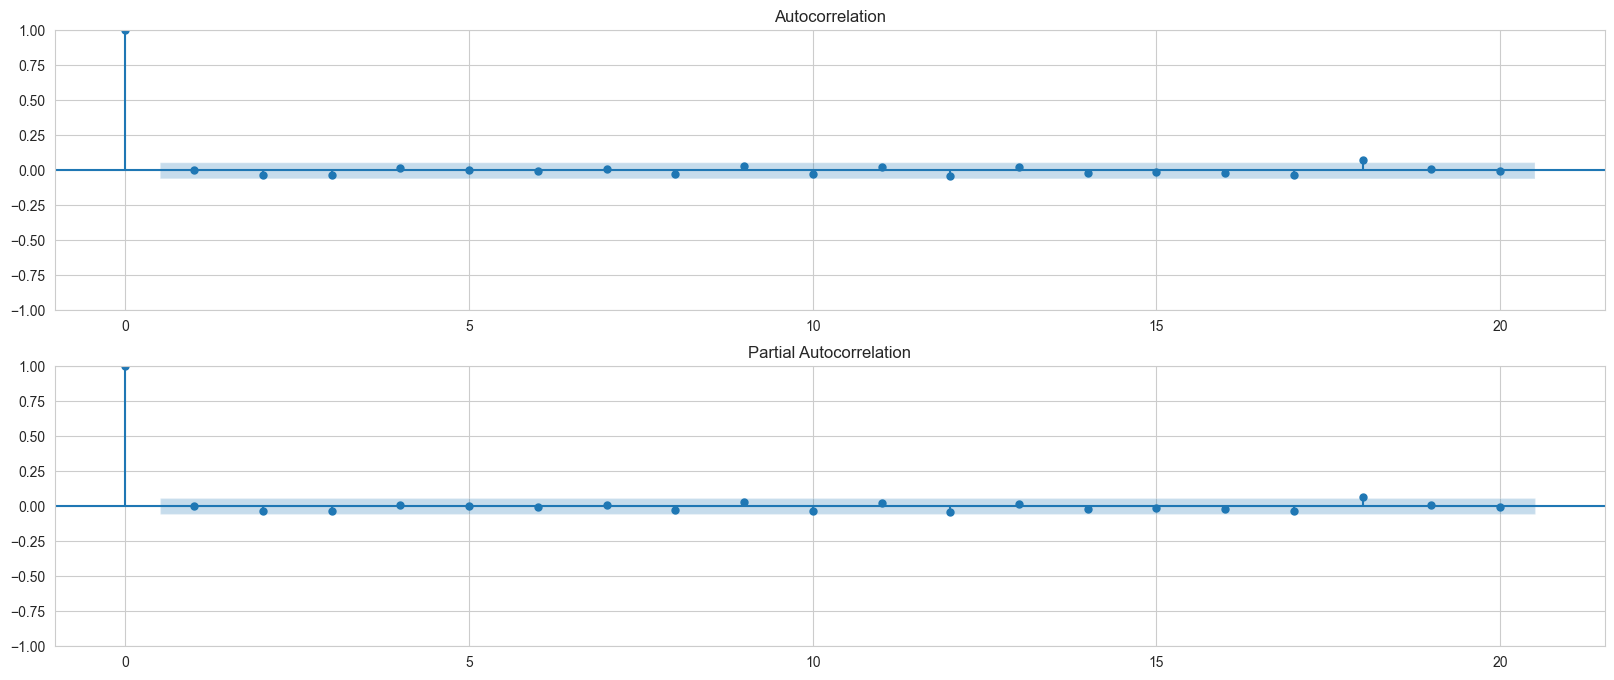
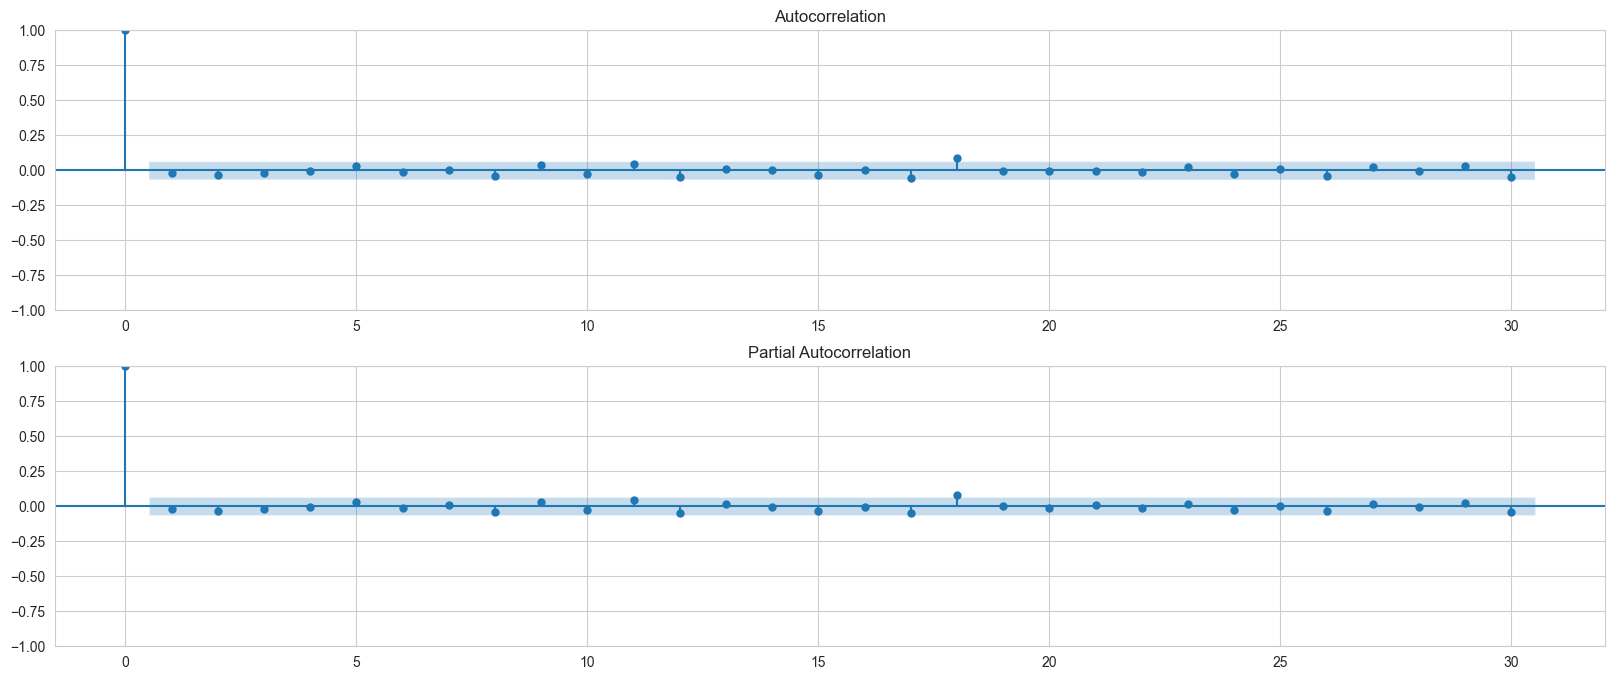
Pushing some updates to the ARIMA modeling section

diff --git a/Pages/Project.py b/Pages/Project.py
@@ -428,7 +428,6 @@ with st.container(border=True):
     st.markdown('''
     ### ARIMA
     ''')
-
     st.code('''
     import pandas as pd
     import numpy as np
@@ -436,28 +435,58 @@ with st.container(border=True):
     import statsmodels.api as sm
     import matplotlib.pyplot as plt
     from sklearn.metrics import mean_absolute_error, root_mean_squared_error, r2_score
+    from sklearn.model_selection import train_test_split, TimeSeriesSplit, cross_val_score
 
-    # Load the data
+    # get historical data for APPL for the last 20 years
     data_ARIMA = pd.read_csv('stock_data.csv', index_col='Date', parse_dates=True)
 
     # Filtering data for a single stock to implement ARIMA model
     stock_ticker = 'AAPL'
     stock_data = data_ARIMA[data_ARIMA['Ticker'] == stock_ticker]['Adj Close']
 
+    # Split the data into training and test sets
+    train_data, test_data = train_test_split(stock_data, test_size=0.2, shuffle=False)
+
     # Differencing to make time series stationary
-    differenced_data = stock_data.diff().dropna()
+    differenced_data = train_data.diff().dropna()
+
+    # Augmented Dickey-Fuller test to check for stationarity
+    from statsmodels.tsa.stattools import adfuller
+    result1 = adfuller(train_data)
+    print(f'Training data ADF Statistic: {result1[0]}')
+    print(f'Training data p-value: {result1[1]}')
+    print("Original data is stationary" if result1[1] <= 0.05 else "Original data is not stationary, differencing required")
+
+    result2 = adfuller(differenced_data)
+    print(f'Differenced data ADF Statistic: {result2[0]}')
+    print(f'Differenced data p-value: {result2[1]}')
+    print("Differenced data is stationary" if result2[1] <= 0.05 else "Differenced data is not stationary")
 
     # Finding the order (p, d, q) using ACF and PACF plots
     fig, ax = plt.subplots(2, 1, figsize=(20, 8))
-    sm.graphics.tsa.plot_acf(differenced_data, lags=20, ax=ax[0])
-    sm.graphics.tsa.plot_pacf(differenced_data, lags=20, ax=ax[1])
+    sm.graphics.tsa.plot_acf(differenced_data, ax=ax[0])
+    sm.graphics.tsa.plot_pacf(differenced_data, ax=ax[1])
     plt.show()
     ''')
     
-    # st.image('https://raw.githubusercontent.com/Sami-Alyasin/Crystal-Stockball/refs/heads/main/data/acf_pacf.png')
+    st.text('''
+            Training data ADF Statistic: -2.3613780288367243
+            Training data p-value: 0.1529351125960524
+            Original data is not stationary, differencing required
+
+            Differenced data ADF Statistic: -31.084016077072704
+            Differenced data p-value: 0.0
+            Differenced data is stationary
+            ''')
+    
+    st.image('https://raw.githubusercontent.com/Sami-Alyasin/Crystal-Stockball/refs/heads/main/data/acf_pacf.png')
     
     st.markdown('''
-    ### ACF and PACF Interpretation
+    ### AFD, ACF, & PACF Interpretation
+
+    - **ADF (Augmented Dickey-Fuller) test:** 
+        - The ADF test we ran suggests that our original data is not stationary (p-value: 0.1529), meaning it likely has trends or other non-stationary components that ARIMA cannot handle well directly, and that the differenced data is stationary (p-value: 0.0).
+        - The ADF Statistic value of -31.084 in the differenced data is a very large negative number, which indicates that the series is highly stationary.
     - **ACF Plot (Autocorrelation Function):**
         - The ACF plot shows the correlation of the time series with its past values (lags).
         - The significant spike at **lag 0** is expected since a time series is always perfectly correlated with itself.
@@ -467,16 +496,79 @@ with st.container(border=True):
         - The PACF plot shows the partial correlation of the time series with its own lagged values, after removing the effect of intermediate lags.
         - The **cut-off point** in the PACF plot helps identify the order of the Autoregressive (`p`) component.
         - In our plot, we see a significant spike at **lag 0**, followed by most subsequent lags falling within the confidence bands. This suggests that **`p` should also be around 0 or 1**.
+                ''')
+   
+    st.code('''
+            # Fit ARIMA model
+            p, d, q = 1, 1, 1
+            model = sm.tsa.ARIMA(stock_data, order=(p, d, q))
+            model_fit = model.fit()
 
-    ### Determining the Order (p, d, q):
+            # Model Summary
+            print(model_fit.summary())
 
-    - **`d` (differencing):**
-        - We already performed **first differencing** to make the time series stationary, which means `d = 1`.
-    - **`p` (Autoregressive term):**
-        - Since there is a significant spike at lag 0 in the PACF plot and no significant spikes after, it suggests **`p = 0 or 1`**.
-    - **`q` (Moving Average term):**
-        - The ACF plot has no significant spikes beyond lag 0, indicating a **`q` value of 0 or 1**.    
-    ''')
+            # Predicting the next day's price
+            forecast = model_fit.forecast(steps=1)
+            print(f'Predicted Adjusted Close Price for next trading day: {forecast.iloc[0]}')
+
+            # Plotting actual vs predicted
+            plt.figure(figsize=(20, 8))
+            plt.plot(stock_data[-100:], label='Actual Price')
+            plt.plot(model_fit.fittedvalues[-100:], label='Fitted Values', color='red')
+            plt.xlabel('Date')
+            plt.ylabel('Adjusted Close Price')
+            plt.title(f'Actual vs Fitted Values for {stock_ticker} Stock Price')
+            plt.legend()
+            plt.show()
+
+            # Evaluating Model Performance
+            y_true = stock_data[1:len(model_fit.fittedvalues) + 1]  # True values (excluding first row because of differencing)
+            y_pred = model_fit.fittedvalues[:len(y_true)]
+            mae = mean_absolute_error(y_true, y_pred)
+            rmse = root_mean_squared_error(y_true, y_pred)
+            mse = np.square(rmse)
+            r2 = r2_score(y_true, y_pred)   
+
+            print(f'MAE: {mae}')
+            print(f'MSE: {mse}')
+            print(f'RMSE: {rmse}')
+            print(f'R2 Score: {r2}')
+            ''') 
+    
+    st.text('''
+                                           SARIMAX Results                                
+        ==============================================================================
+        Dep. Variable:              Adj Close   No. Observations:                  936
+        Model:                 ARIMA(1, 2, 1)   Log Likelihood               -2223.847
+        Date:                Mon, 11 Nov 2024   AIC                           4453.694
+        Time:                        17:10:36   BIC                           4468.213
+        Sample:                             0   HQIC                          4459.231
+                                        - 936                                         
+        Covariance Type:                  opg                                         
+        ==============================================================================
+                        coef    std err          z      P>|z|      [0.025      0.975]
+        ------------------------------------------------------------------------------
+        ar.L1         -0.0169      0.029     -0.586      0.558      -0.074       0.040
+        ma.L1         -0.9999      0.130     -7.668      0.000      -1.256      -0.744
+        sigma2         6.7992      0.907      7.494      0.000       5.021       8.578
+        ===================================================================================
+        Ljung-Box (L1) (Q):                   0.01   Jarque-Bera (JB):               109.34
+        Prob(Q):                              0.94   Prob(JB):                         0.00
+        Heteroskedasticity (H):               1.19   Skew:                            -0.05
+        Prob(H) (two-sided):                  0.12   Kurtosis:                         4.67
+        ===================================================================================
+        
+        
+                ''')
+    
+    st.image('https://raw.githubusercontent.com/Sami-Alyasin/Crystal-Stockball/refs/heads/main/data/ARIMA.png')
+    
+    st.text('''
+            MAE: 13.31685522450983
+            MSE: 298.6497810176591
+            RMSE: 17.281486655310044
+            R2 Score: 0.39032436821929584
+                        ''')
 
     st.code('''
             # Append ARIMA & SARIMA results to the evaluation DataFrame
